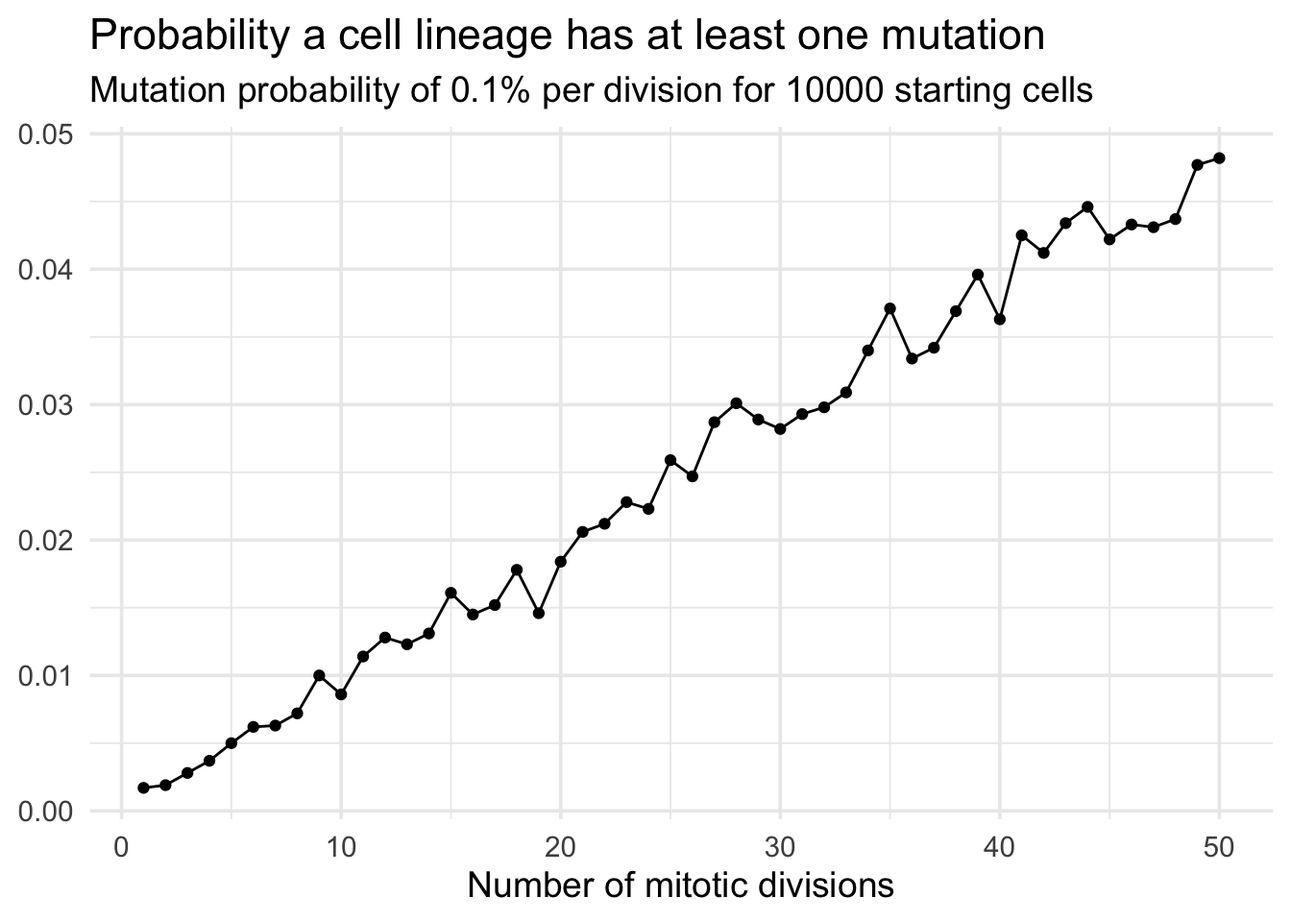
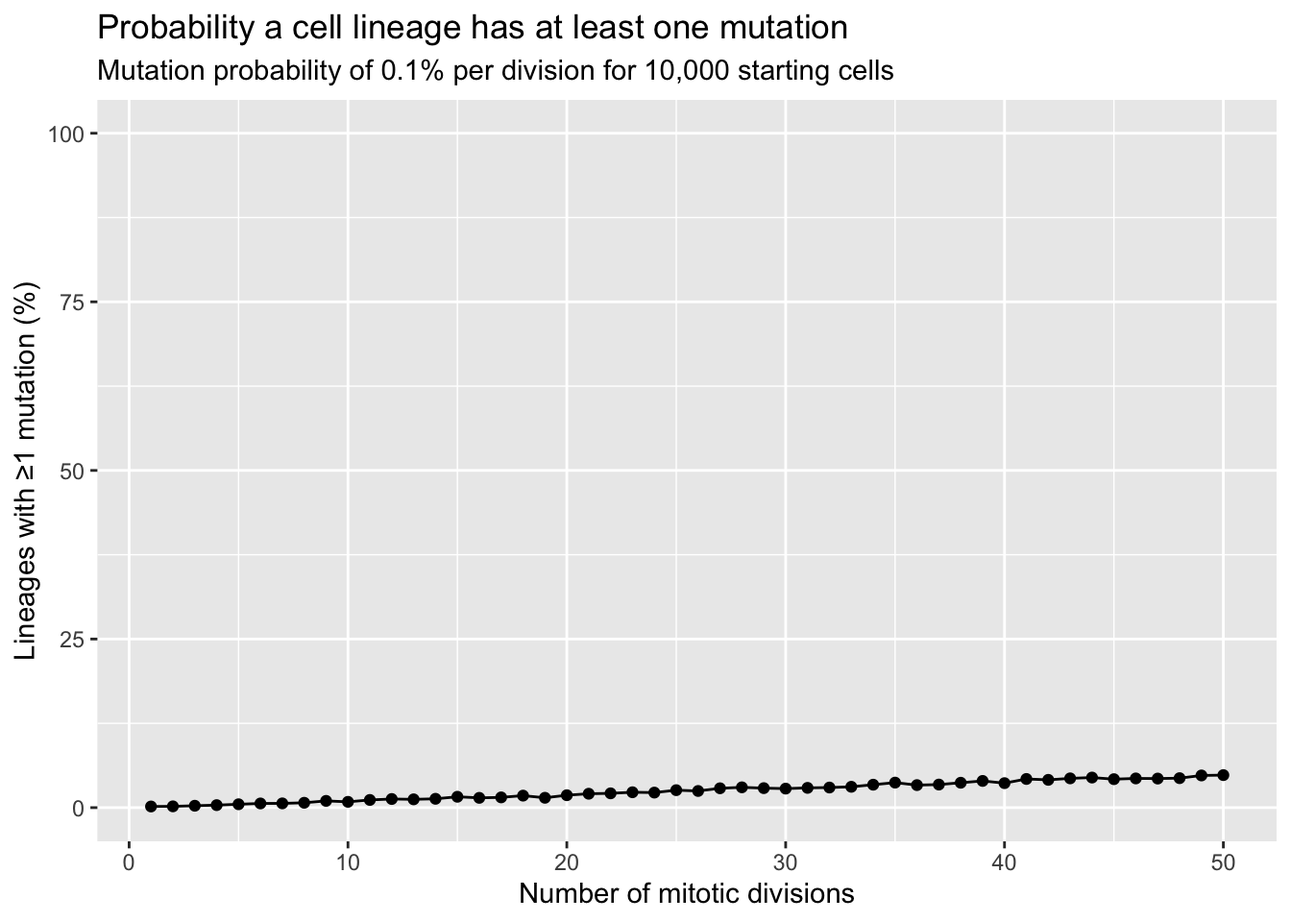
final simulation

diff --git a/docs/simulation.html b/docs/simulation.html
@@ -7,7 +7,7 @@
 <meta name="viewport" content="width=device-width, initial-scale=1.0, user-scalable=yes">
 
 
-<title>simulation – Ryan Mooney</title>
+<title>Simulation – Ryan Mooney</title>
 <style>
 code{white-space: pre-wrap;}
 span.smallcaps{font-variant: small-caps;}
@@ -179,6 +179,7 @@ pre > code.sourceCode > span > a:first-child::before { text-decoration: underlin
   <li><a href="#the-task" id="toc-the-task" class="nav-link active" data-scroll-target="#the-task">The Task</a></li>
   <li><a href="#beginning-the-model" id="toc-beginning-the-model" class="nav-link" data-scroll-target="#beginning-the-model">Beginning the model</a></li>
   <li><a href="#lets-visualize" id="toc-lets-visualize" class="nav-link" data-scroll-target="#lets-visualize">Let’s visualize!</a></li>
+  <li><a href="#thats-it" id="toc-thats-it" class="nav-link" data-scroll-target="#thats-it">That’s it!</a></li>
   </ul>
 </nav>
     </div>
@@ -187,7 +188,7 @@ pre > code.sourceCode > span > a:first-child::before { text-decoration: underlin
 
 <header id="title-block-header" class="quarto-title-block default">
 <div class="quarto-title">
-<h1 class="title">simulation</h1>
+<h1 class="title">Simulation</h1>
 </div>
 
 
@@ -212,31 +213,30 @@ pre > code.sourceCode > span > a:first-child::before { text-decoration: underlin
 <h1>Beginning the model</h1>
 <p>To begin, I will set up a function to detect mutations. To do this, I will write a function with two inputs, one being the number of divisions, n_divisions, that we can model the cell dividing n times, and the second being prob, the probability of a mutation occuring at each division. For each division, I will generate a random uniform number between 0 and 1 with runif(). Then, I will compare this number with the probability value, prob, and say that there was a mutation if the random uniform number generated at that division is &lt; the probability that there is a mutation at that division. This will create a logical vector. If the sum of this logical vector is greater than 0, then there is a mutation in that simulated lineage.</p>
 <div class="cell">
-<div class="code-copy-outer-scaffold"><div class="sourceCode cell-code" id="cb1"><pre class="sourceCode r code-with-copy"><code class="sourceCode r"><span id="cb1-1"><a href="#cb1-1" aria-hidden="true" tabindex="-1"></a><span class="fu">set.seed</span>(<span class="dv">4747</span>)</span>
-<span id="cb1-2"><a href="#cb1-2" aria-hidden="true" tabindex="-1"></a></span>
-<span id="cb1-3"><a href="#cb1-3" aria-hidden="true" tabindex="-1"></a>has_mutation_after_divisions <span class="ot">&lt;-</span> <span class="cf">function</span>(n_divisions, prob){</span>
-<span id="cb1-4"><a href="#cb1-4" aria-hidden="true" tabindex="-1"></a>  random <span class="ot">&lt;-</span> <span class="fu">runif</span>(n_divisions)</span>
-<span id="cb1-5"><a href="#cb1-5" aria-hidden="true" tabindex="-1"></a>  mutation_flag <span class="ot">&lt;-</span> random <span class="sc">&lt;</span> prob</span>
-<span id="cb1-6"><a href="#cb1-6" aria-hidden="true" tabindex="-1"></a>  total_mutations <span class="ot">&lt;-</span> <span class="fu">sum</span>(mutation_flag)</span>
-<span id="cb1-7"><a href="#cb1-7" aria-hidden="true" tabindex="-1"></a>  total_mutations <span class="sc">&gt;</span> <span class="dv">0</span></span>
-<span id="cb1-8"><a href="#cb1-8" aria-hidden="true" tabindex="-1"></a>}</span></code></pre></div><button title="Copy to Clipboard" class="code-copy-button"><i class="bi"></i></button></div>
+<div class="code-copy-outer-scaffold"><div class="sourceCode cell-code" id="cb1"><pre class="sourceCode r code-with-copy"><code class="sourceCode r"><span id="cb1-1"><a href="#cb1-1" aria-hidden="true" tabindex="-1"></a><span class="fu">library</span>(tidyverse)</span>
+<span id="cb1-2"><a href="#cb1-2" aria-hidden="true" tabindex="-1"></a><span class="fu">set.seed</span>(<span class="dv">4747</span>)</span>
+<span id="cb1-3"><a href="#cb1-3" aria-hidden="true" tabindex="-1"></a></span>
+<span id="cb1-4"><a href="#cb1-4" aria-hidden="true" tabindex="-1"></a>has_mutation_after_divisions <span class="ot">&lt;-</span> <span class="cf">function</span>(n_divisions, prob){</span>
+<span id="cb1-5"><a href="#cb1-5" aria-hidden="true" tabindex="-1"></a>  random <span class="ot">&lt;-</span> <span class="fu">runif</span>(n_divisions)</span>
+<span id="cb1-6"><a href="#cb1-6" aria-hidden="true" tabindex="-1"></a>  mutation_flag <span class="ot">&lt;-</span> random <span class="sc">&lt;</span> prob</span>
+<span id="cb1-7"><a href="#cb1-7" aria-hidden="true" tabindex="-1"></a>  total_mutations <span class="ot">&lt;-</span> <span class="fu">sum</span>(mutation_flag)</span>
+<span id="cb1-8"><a href="#cb1-8" aria-hidden="true" tabindex="-1"></a>  total_mutations <span class="sc">&gt;</span> <span class="dv">0</span></span>
+<span id="cb1-9"><a href="#cb1-9" aria-hidden="true" tabindex="-1"></a>}</span></code></pre></div><button title="Copy to Clipboard" class="code-copy-button"><i class="bi"></i></button></div>
 </div>
-<p>The above logic can be used to continue simulating on larger numbers of lineages. To start, we will simulate the probability of 0.001, meaning a 0.1% chance that each cell division has a 0.1% chance of generating a new mutation that persists in the lineage. I will also start with 10000 cells to simulate per division count. I will simulate these 10000 cells to go through 50 cell divisions. I will then use map() piped into list_rbind() to create a data frame that has two columns: divisions, meaning the number of cell divisions each lineage undergoes, and prob_mutated, the probability that at least one lineage has accumulated a mutation. The inner map_lgl() simulates n_cells cells going through the divisions, and suns the has_mutation_after_divisions() function defined above on each cell lineage. This inner map_lgl() function returns TRUE if a lineage picked up at least one mutation, and returns FALSE otherwise. The final tibble() summarize the results for each of the 10000 cells after each division cycle, and calculates the proportion of TRUE values after that division cycle. The final pipe into list_rbind() gives us a final data frame of the proportion of lineages that have a mutation after each division.</p>
+<p>The above logic can be used to continue simulating on larger numbers of lineages. To start, we will simulate the probability of 0.001, meaning a 0.1% chance that each cell division has a 0.1% chance of generating a new mutation that persists in the lineage. I will also start with 10000 cells to simulate per division count. I will simulate these 10000 cells to go through 50 cell divisions. I will then use map() piped into list_rbind() to create a data frame that has two columns: divisions, meaning the number of cell divisions each lineage undergoes, and prob_mutated, the probability that at least one lineage has accumulated a mutation. The inner map_lgl() simulates n_cells cells going through the divisions, and sums the has_mutation_after_divisions() function defined above on each cell lineage. This inner map_lgl() function returns TRUE if a lineage picked up at least one mutation, and returns FALSE otherwise. The final tibble() summarize the results for each of the 10000 cells after each division cycle, and calculates the proportion of TRUE values after that division cycle. The final pipe into list_rbind() gives us a final data frame of the proportion of lineages that have a mutation after each division.</p>
 <div class="cell">
-<div class="code-copy-outer-scaffold"><div class="sourceCode cell-code" id="cb2"><pre class="sourceCode r code-with-copy"><code class="sourceCode r"><span id="cb2-1"><a href="#cb2-1" aria-hidden="true" tabindex="-1"></a><span class="fu">library</span>(tidyverse)</span>
-<span id="cb2-2"><a href="#cb2-2" aria-hidden="true" tabindex="-1"></a></span>
-<span id="cb2-3"><a href="#cb2-3" aria-hidden="true" tabindex="-1"></a><span class="fu">set.seed</span>(<span class="dv">4747</span>)</span>
-<span id="cb2-4"><a href="#cb2-4" aria-hidden="true" tabindex="-1"></a>prob <span class="ot">&lt;-</span> <span class="fl">0.001</span></span>
-<span id="cb2-5"><a href="#cb2-5" aria-hidden="true" tabindex="-1"></a>n_cells <span class="ot">&lt;-</span> <span class="dv">10000</span></span>
-<span id="cb2-6"><a href="#cb2-6" aria-hidden="true" tabindex="-1"></a>number_of_divisions <span class="ot">&lt;-</span> <span class="dv">1</span><span class="sc">:</span><span class="dv">50</span></span>
-<span id="cb2-7"><a href="#cb2-7" aria-hidden="true" tabindex="-1"></a></span>
-<span id="cb2-8"><a href="#cb2-8" aria-hidden="true" tabindex="-1"></a>results <span class="ot">&lt;-</span> <span class="fu">map</span>(number_of_divisions, <span class="cf">function</span>(n) {</span>
-<span id="cb2-9"><a href="#cb2-9" aria-hidden="true" tabindex="-1"></a>  outcomes <span class="ot">&lt;-</span> <span class="fu">map_lgl</span>(<span class="dv">1</span><span class="sc">:</span>n_cells, <span class="cf">function</span>(x) {</span>
-<span id="cb2-10"><a href="#cb2-10" aria-hidden="true" tabindex="-1"></a>    <span class="fu">has_mutation_after_divisions</span>(<span class="at">n_divisions =</span> n, <span class="at">prob =</span> prob)})</span>
-<span id="cb2-11"><a href="#cb2-11" aria-hidden="true" tabindex="-1"></a>  <span class="fu">tibble</span>(<span class="at">divisions =</span> n, <span class="at">prob_mutated =</span> <span class="fu">mean</span>(outcomes))</span>
-<span id="cb2-12"><a href="#cb2-12" aria-hidden="true" tabindex="-1"></a>}) <span class="sc">|&gt;</span> <span class="fu">list_rbind</span>()</span>
-<span id="cb2-13"><a href="#cb2-13" aria-hidden="true" tabindex="-1"></a></span>
-<span id="cb2-14"><a href="#cb2-14" aria-hidden="true" tabindex="-1"></a>results</span></code></pre></div><button title="Copy to Clipboard" class="code-copy-button"><i class="bi"></i></button></div>
+<div class="code-copy-outer-scaffold"><div class="sourceCode cell-code" id="cb2"><pre class="sourceCode r code-with-copy"><code class="sourceCode r"><span id="cb2-1"><a href="#cb2-1" aria-hidden="true" tabindex="-1"></a><span class="fu">set.seed</span>(<span class="dv">4747</span>)</span>
+<span id="cb2-2"><a href="#cb2-2" aria-hidden="true" tabindex="-1"></a>prob_0 <span class="ot">&lt;-</span> <span class="fl">0.001</span></span>
+<span id="cb2-3"><a href="#cb2-3" aria-hidden="true" tabindex="-1"></a>n_cells <span class="ot">&lt;-</span> <span class="dv">10000</span></span>
+<span id="cb2-4"><a href="#cb2-4" aria-hidden="true" tabindex="-1"></a>number_of_divisions <span class="ot">&lt;-</span> <span class="dv">1</span><span class="sc">:</span><span class="dv">50</span></span>
+<span id="cb2-5"><a href="#cb2-5" aria-hidden="true" tabindex="-1"></a></span>
+<span id="cb2-6"><a href="#cb2-6" aria-hidden="true" tabindex="-1"></a>results <span class="ot">&lt;-</span> <span class="fu">map</span>(number_of_divisions, <span class="cf">function</span>(n) {</span>
+<span id="cb2-7"><a href="#cb2-7" aria-hidden="true" tabindex="-1"></a>  outcomes <span class="ot">&lt;-</span> <span class="fu">map_lgl</span>(<span class="dv">1</span><span class="sc">:</span>n_cells, <span class="cf">function</span>(x) {</span>
+<span id="cb2-8"><a href="#cb2-8" aria-hidden="true" tabindex="-1"></a>    <span class="fu">has_mutation_after_divisions</span>(<span class="at">n_divisions =</span> n, <span class="at">prob =</span> prob_0)})</span>
+<span id="cb2-9"><a href="#cb2-9" aria-hidden="true" tabindex="-1"></a>  <span class="fu">tibble</span>(<span class="at">divisions =</span> n, <span class="at">prob_mutated =</span> <span class="fu">mean</span>(outcomes))</span>
+<span id="cb2-10"><a href="#cb2-10" aria-hidden="true" tabindex="-1"></a>}) <span class="sc">|&gt;</span> <span class="fu">list_rbind</span>()</span>
+<span id="cb2-11"><a href="#cb2-11" aria-hidden="true" tabindex="-1"></a></span>
+<span id="cb2-12"><a href="#cb2-12" aria-hidden="true" tabindex="-1"></a>results</span></code></pre></div><button title="Copy to Clipboard" class="code-copy-button"><i class="bi"></i></button></div>
 <div class="cell-output cell-output-stdout">
 <pre><code># A tibble: 50 × 2
    divisions prob_mutated
@@ -259,16 +259,16 @@ pre > code.sourceCode > span > a:first-child::before { text-decoration: underlin
 <h1>Let’s visualize!</h1>
 <p>Let’s visualize what this data frame looks like graphically as mutations are accumulated across the simulated cell populations.</p>
 <div class="cell">
-<div class="code-copy-outer-scaffold"><div class="sourceCode cell-code" id="cb4"><pre class="sourceCode r code-with-copy"><code class="sourceCode r"><span id="cb4-1"><a href="#cb4-1" aria-hidden="true" tabindex="-1"></a><span class="fu">ggplot</span>(results, <span class="fu">aes</span>(<span class="at">x =</span> divisions, <span class="at">y =</span> prob_mutated)) <span class="sc">+</span></span>
+<div class="code-copy-outer-scaffold"><div class="sourceCode cell-code" id="cb4"><pre class="sourceCode r code-with-copy"><code class="sourceCode r"><span id="cb4-1"><a href="#cb4-1" aria-hidden="true" tabindex="-1"></a><span class="fu">ggplot</span>(results, <span class="fu">aes</span>(<span class="at">x =</span> divisions, <span class="at">y =</span> prob_mutated <span class="sc">*</span> <span class="dv">100</span>)) <span class="sc">+</span></span>
 <span id="cb4-2"><a href="#cb4-2" aria-hidden="true" tabindex="-1"></a>  <span class="fu">geom_line</span>() <span class="sc">+</span></span>
 <span id="cb4-3"><a href="#cb4-3" aria-hidden="true" tabindex="-1"></a>  <span class="fu">geom_point</span>() <span class="sc">+</span></span>
-<span id="cb4-4"><a href="#cb4-4" aria-hidden="true" tabindex="-1"></a>  <span class="fu">labs</span>(</span>
-<span id="cb4-5"><a href="#cb4-5" aria-hidden="true" tabindex="-1"></a>    <span class="at">title =</span> <span class="st">"Probability a cell lineage has at least one mutation"</span>,</span>
-<span id="cb4-6"><a href="#cb4-6" aria-hidden="true" tabindex="-1"></a>    <span class="at">subtitle =</span> <span class="st">"Mutation probability of 0.1% per division for 10000 starting cells"</span>,</span>
-<span id="cb4-7"><a href="#cb4-7" aria-hidden="true" tabindex="-1"></a>    <span class="at">x =</span> <span class="st">"Number of mitotic divisions"</span>,</span>
-<span id="cb4-8"><a href="#cb4-8" aria-hidden="true" tabindex="-1"></a>    <span class="at">y =</span> <span class="cn">NULL</span></span>
-<span id="cb4-9"><a href="#cb4-9" aria-hidden="true" tabindex="-1"></a>  ) <span class="sc">+</span></span>
-<span id="cb4-10"><a href="#cb4-10" aria-hidden="true" tabindex="-1"></a>  <span class="fu">theme_minimal</span>(<span class="at">base_size =</span> <span class="dv">14</span>)</span></code></pre></div><button title="Copy to Clipboard" class="code-copy-button"><i class="bi"></i></button></div>
+<span id="cb4-4"><a href="#cb4-4" aria-hidden="true" tabindex="-1"></a>  <span class="fu">scale_y_continuous</span>(<span class="at">limits =</span> <span class="fu">c</span>(<span class="dv">0</span>, <span class="dv">100</span>)) <span class="sc">+</span></span>
+<span id="cb4-5"><a href="#cb4-5" aria-hidden="true" tabindex="-1"></a>  <span class="fu">labs</span>(</span>
+<span id="cb4-6"><a href="#cb4-6" aria-hidden="true" tabindex="-1"></a>    <span class="at">title =</span> <span class="st">"Probability a cell lineage has at least one mutation"</span>,</span>
+<span id="cb4-7"><a href="#cb4-7" aria-hidden="true" tabindex="-1"></a>    <span class="at">subtitle =</span> <span class="st">"Mutation probability of 0.1% per division for 10,000 starting cells"</span>,</span>
+<span id="cb4-8"><a href="#cb4-8" aria-hidden="true" tabindex="-1"></a>    <span class="at">x =</span> <span class="st">"Number of mitotic divisions"</span>,</span>
+<span id="cb4-9"><a href="#cb4-9" aria-hidden="true" tabindex="-1"></a>    <span class="at">y =</span> <span class="st">"Lineages with ≥1 mutation (%)"</span></span>
+<span id="cb4-10"><a href="#cb4-10" aria-hidden="true" tabindex="-1"></a>  )</span></code></pre></div><button title="Copy to Clipboard" class="code-copy-button"><i class="bi"></i></button></div>
 <div class="cell-output-display">
 <div>
 <figure class="figure">
@@ -277,6 +277,114 @@ pre > code.sourceCode > span > a:first-child::before { text-decoration: underlin
 </div>
 </div>
 </div>
+<p>Let’s check how this plot changes with a a higher frequency of mutation, say a 1% chance of a mutation each cell division.</p>
+<div class="cell">
+<div class="code-copy-outer-scaffold"><div class="sourceCode cell-code" id="cb5"><pre class="sourceCode r code-with-copy"><code class="sourceCode r"><span id="cb5-1"><a href="#cb5-1" aria-hidden="true" tabindex="-1"></a><span class="fu">set.seed</span>(<span class="dv">4747</span>)</span>
+<span id="cb5-2"><a href="#cb5-2" aria-hidden="true" tabindex="-1"></a>prob_1 <span class="ot">&lt;-</span> <span class="fl">0.01</span></span>
+<span id="cb5-3"><a href="#cb5-3" aria-hidden="true" tabindex="-1"></a>n_cells <span class="ot">&lt;-</span> <span class="dv">10000</span></span>
+<span id="cb5-4"><a href="#cb5-4" aria-hidden="true" tabindex="-1"></a>number_of_divisions <span class="ot">&lt;-</span> <span class="dv">1</span><span class="sc">:</span><span class="dv">50</span></span>
+<span id="cb5-5"><a href="#cb5-5" aria-hidden="true" tabindex="-1"></a></span>
+<span id="cb5-6"><a href="#cb5-6" aria-hidden="true" tabindex="-1"></a>results_1 <span class="ot">&lt;-</span> <span class="fu">map</span>(number_of_divisions, <span class="cf">function</span>(n) {</span>
+<span id="cb5-7"><a href="#cb5-7" aria-hidden="true" tabindex="-1"></a>  outcomes_1 <span class="ot">&lt;-</span> <span class="fu">map_lgl</span>(<span class="dv">1</span><span class="sc">:</span>n_cells, <span class="cf">function</span>(x) {</span>
+<span id="cb5-8"><a href="#cb5-8" aria-hidden="true" tabindex="-1"></a>    <span class="fu">has_mutation_after_divisions</span>(<span class="at">n_divisions =</span> n, <span class="at">prob =</span> prob_1)})</span>
+<span id="cb5-9"><a href="#cb5-9" aria-hidden="true" tabindex="-1"></a>  <span class="fu">tibble</span>(<span class="at">divisions_1 =</span> n, <span class="at">prob_mutated_1 =</span> <span class="fu">mean</span>(outcomes_1))</span>
+<span id="cb5-10"><a href="#cb5-10" aria-hidden="true" tabindex="-1"></a>}) <span class="sc">|&gt;</span> <span class="fu">list_rbind</span>()</span>
+<span id="cb5-11"><a href="#cb5-11" aria-hidden="true" tabindex="-1"></a></span>
+<span id="cb5-12"><a href="#cb5-12" aria-hidden="true" tabindex="-1"></a>results_1</span></code></pre></div><button title="Copy to Clipboard" class="code-copy-button"><i class="bi"></i></button></div>
+<div class="cell-output cell-output-stdout">
+<pre><code># A tibble: 50 × 2
+   divisions_1 prob_mutated_1
+         &lt;int&gt;          &lt;dbl&gt;
+ 1           1         0.0104
+ 2           2         0.0204
+ 3           3         0.0296
+ 4           4         0.0379
+ 5           5         0.0481
+ 6           6         0.0566
+ 7           7         0.0696
+ 8           8         0.0764
+ 9           9         0.0876
+10          10         0.0911
+# ℹ 40 more rows</code></pre>
+</div>
+</div>
+<div class="cell">
+<div class="code-copy-outer-scaffold"><div class="sourceCode cell-code" id="cb7"><pre class="sourceCode r code-with-copy"><code class="sourceCode r"><span id="cb7-1"><a href="#cb7-1" aria-hidden="true" tabindex="-1"></a><span class="fu">ggplot</span>(results_1, <span class="fu">aes</span>(<span class="at">x =</span> divisions_1, <span class="at">y =</span> prob_mutated_1 <span class="sc">*</span> <span class="dv">100</span>)) <span class="sc">+</span></span>
+<span id="cb7-2"><a href="#cb7-2" aria-hidden="true" tabindex="-1"></a>  <span class="fu">geom_line</span>() <span class="sc">+</span></span>
+<span id="cb7-3"><a href="#cb7-3" aria-hidden="true" tabindex="-1"></a>  <span class="fu">geom_point</span>() <span class="sc">+</span></span>
+<span id="cb7-4"><a href="#cb7-4" aria-hidden="true" tabindex="-1"></a>  <span class="fu">scale_y_continuous</span>(<span class="at">limits =</span> <span class="fu">c</span>(<span class="dv">0</span>, <span class="dv">100</span>)) <span class="sc">+</span></span>
+<span id="cb7-5"><a href="#cb7-5" aria-hidden="true" tabindex="-1"></a>  <span class="fu">labs</span>(</span>
+<span id="cb7-6"><a href="#cb7-6" aria-hidden="true" tabindex="-1"></a>    <span class="at">title =</span> <span class="st">"Probability a cell lineage has at least one mutation"</span>,</span>
+<span id="cb7-7"><a href="#cb7-7" aria-hidden="true" tabindex="-1"></a>    <span class="at">subtitle =</span> <span class="st">"Mutation probability of 1% per division for 10000 starting cells"</span>,</span>
+<span id="cb7-8"><a href="#cb7-8" aria-hidden="true" tabindex="-1"></a>    <span class="at">x =</span> <span class="st">"Number of mitotic divisions"</span>,</span>
+<span id="cb7-9"><a href="#cb7-9" aria-hidden="true" tabindex="-1"></a>    <span class="at">y =</span> <span class="cn">NULL</span></span>
+<span id="cb7-10"><a href="#cb7-10" aria-hidden="true" tabindex="-1"></a>  ) <span class="sc">+</span></span>
+<span id="cb7-11"><a href="#cb7-11" aria-hidden="true" tabindex="-1"></a>  <span class="fu">theme_minimal</span>(<span class="at">base_size =</span> <span class="dv">14</span>)</span></code></pre></div><button title="Copy to Clipboard" class="code-copy-button"><i class="bi"></i></button></div>
+<div class="cell-output-display">
+<div>
+<figure class="figure">
+<p><img src="simulation_files/figure-html/unnamed-chunk-5-1.png" class="img-fluid figure-img" width="672"></p>
+</figure>
+</div>
+</div>
+</div>
+<p>Wow. That’s a lot of accumulated mutations! Luckily, our cells do not have a 1% chance of accumulating a meaningful, harmful, and disruptive mutation each time they divide (if they did, we likely wouldn’t exist). Let’s use a more biologically relevant proportion of mutation.</p>
+<p>I’ll model a 1e-6 per-division probability that a daughter cell acquires a mutation that is not just silent, but actually alters fitness in a biologically meaningful way. This is a reasonable number, modeling a mutation in any meaningful, harmful mutation across a panel of key genes/pathways.</p>
+<div class="cell">
+<div class="code-copy-outer-scaffold"><div class="sourceCode cell-code" id="cb8"><pre class="sourceCode r code-with-copy"><code class="sourceCode r"><span id="cb8-1"><a href="#cb8-1" aria-hidden="true" tabindex="-1"></a><span class="fu">set.seed</span>(<span class="dv">4747</span>)</span>
+<span id="cb8-2"><a href="#cb8-2" aria-hidden="true" tabindex="-1"></a>prob_2 <span class="ot">&lt;-</span> <span class="fl">1e-6</span></span>
+<span id="cb8-3"><a href="#cb8-3" aria-hidden="true" tabindex="-1"></a>n_cells <span class="ot">&lt;-</span> <span class="dv">10000</span></span>
+<span id="cb8-4"><a href="#cb8-4" aria-hidden="true" tabindex="-1"></a>number_of_divisions <span class="ot">&lt;-</span> <span class="dv">1</span><span class="sc">:</span><span class="dv">50</span></span>
+<span id="cb8-5"><a href="#cb8-5" aria-hidden="true" tabindex="-1"></a></span>
+<span id="cb8-6"><a href="#cb8-6" aria-hidden="true" tabindex="-1"></a>results_2 <span class="ot">&lt;-</span> <span class="fu">map</span>(number_of_divisions, <span class="cf">function</span>(n) {</span>
+<span id="cb8-7"><a href="#cb8-7" aria-hidden="true" tabindex="-1"></a>  outcomes_2 <span class="ot">&lt;-</span> <span class="fu">map_lgl</span>(<span class="dv">1</span><span class="sc">:</span>n_cells, <span class="cf">function</span>(x) {</span>
+<span id="cb8-8"><a href="#cb8-8" aria-hidden="true" tabindex="-1"></a>    <span class="fu">has_mutation_after_divisions</span>(<span class="at">n_divisions =</span> n, <span class="at">prob =</span> prob_2)})</span>
+<span id="cb8-9"><a href="#cb8-9" aria-hidden="true" tabindex="-1"></a>  <span class="fu">tibble</span>(<span class="at">divisions_2 =</span> n, <span class="at">prob_mutated_2 =</span> <span class="fu">mean</span>(outcomes_2))</span>
+<span id="cb8-10"><a href="#cb8-10" aria-hidden="true" tabindex="-1"></a>}) <span class="sc">|&gt;</span> <span class="fu">list_rbind</span>()</span>
+<span id="cb8-11"><a href="#cb8-11" aria-hidden="true" tabindex="-1"></a></span>
+<span id="cb8-12"><a href="#cb8-12" aria-hidden="true" tabindex="-1"></a>results_2</span></code></pre></div><button title="Copy to Clipboard" class="code-copy-button"><i class="bi"></i></button></div>
+<div class="cell-output cell-output-stdout">
+<pre><code># A tibble: 50 × 2
+   divisions_2 prob_mutated_2
+         &lt;int&gt;          &lt;dbl&gt;
+ 1           1              0
+ 2           2              0
+ 3           3              0
+ 4           4              0
+ 5           5              0
+ 6           6              0
+ 7           7              0
+ 8           8              0
+ 9           9              0
+10          10              0
+# ℹ 40 more rows</code></pre>
+</div>
+</div>
+<p>Looking at the above data frame, we know these mutation frequencies will be close to zero. So, I will zoom in on the graph to see the actual trend (i.e, the y-axis here will not go from 0 to 100).</p>
+<div class="cell">
+<div class="code-copy-outer-scaffold"><div class="sourceCode cell-code" id="cb10"><pre class="sourceCode r code-with-copy"><code class="sourceCode r"><span id="cb10-1"><a href="#cb10-1" aria-hidden="true" tabindex="-1"></a><span class="fu">ggplot</span>(results_2, <span class="fu">aes</span>(<span class="at">x =</span> divisions_2, <span class="at">y =</span> prob_mutated_2)) <span class="sc">+</span></span>
+<span id="cb10-2"><a href="#cb10-2" aria-hidden="true" tabindex="-1"></a>  <span class="fu">geom_line</span>() <span class="sc">+</span></span>
+<span id="cb10-3"><a href="#cb10-3" aria-hidden="true" tabindex="-1"></a>  <span class="fu">geom_point</span>() <span class="sc">+</span></span>
+<span id="cb10-4"><a href="#cb10-4" aria-hidden="true" tabindex="-1"></a>  <span class="fu">labs</span>(</span>
+<span id="cb10-5"><a href="#cb10-5" aria-hidden="true" tabindex="-1"></a>    <span class="at">title =</span> <span class="st">"Probability a cell lineage has at least one mutation"</span>,</span>
+<span id="cb10-6"><a href="#cb10-6" aria-hidden="true" tabindex="-1"></a>    <span class="at">subtitle =</span> <span class="st">"Mutation probability of 0.0001% per division for 10000 starting cells"</span>,</span>
+<span id="cb10-7"><a href="#cb10-7" aria-hidden="true" tabindex="-1"></a>    <span class="at">x =</span> <span class="st">"Number of mitotic divisions"</span>,</span>
+<span id="cb10-8"><a href="#cb10-8" aria-hidden="true" tabindex="-1"></a>    <span class="at">y =</span> <span class="cn">NULL</span></span>
+<span id="cb10-9"><a href="#cb10-9" aria-hidden="true" tabindex="-1"></a>  ) <span class="sc">+</span></span>
+<span id="cb10-10"><a href="#cb10-10" aria-hidden="true" tabindex="-1"></a>  <span class="fu">theme_minimal</span>(<span class="at">base_size =</span> <span class="dv">14</span>)</span></code></pre></div><button title="Copy to Clipboard" class="code-copy-button"><i class="bi"></i></button></div>
+<div class="cell-output-display">
+<div>
+<figure class="figure">
+<p><img src="simulation_files/figure-html/unnamed-chunk-7-1.png" class="img-fluid figure-img" width="672"></p>
+</figure>
+</div>
+</div>
+</div>
+<p>This is very close to 0. And that’s a good thing! Most cell divisions faithfully copy DNA with no meaningful changes. Once in tens of thousands or millions of divisions, a driver mutation pops up — a mutation that actually changes cell fitness and can lead to downstream problems. That rare event can seed a clone that can later expand, but the initial occurrence is tremendously rare, as shown above.</p>
+</section>
+<section id="thats-it" class="level1">
+<h1>That’s it!</h1>
+<p>Thanks for joining me on my first simulation today! That was a lot of fun.</p>
 
 
 </section>
